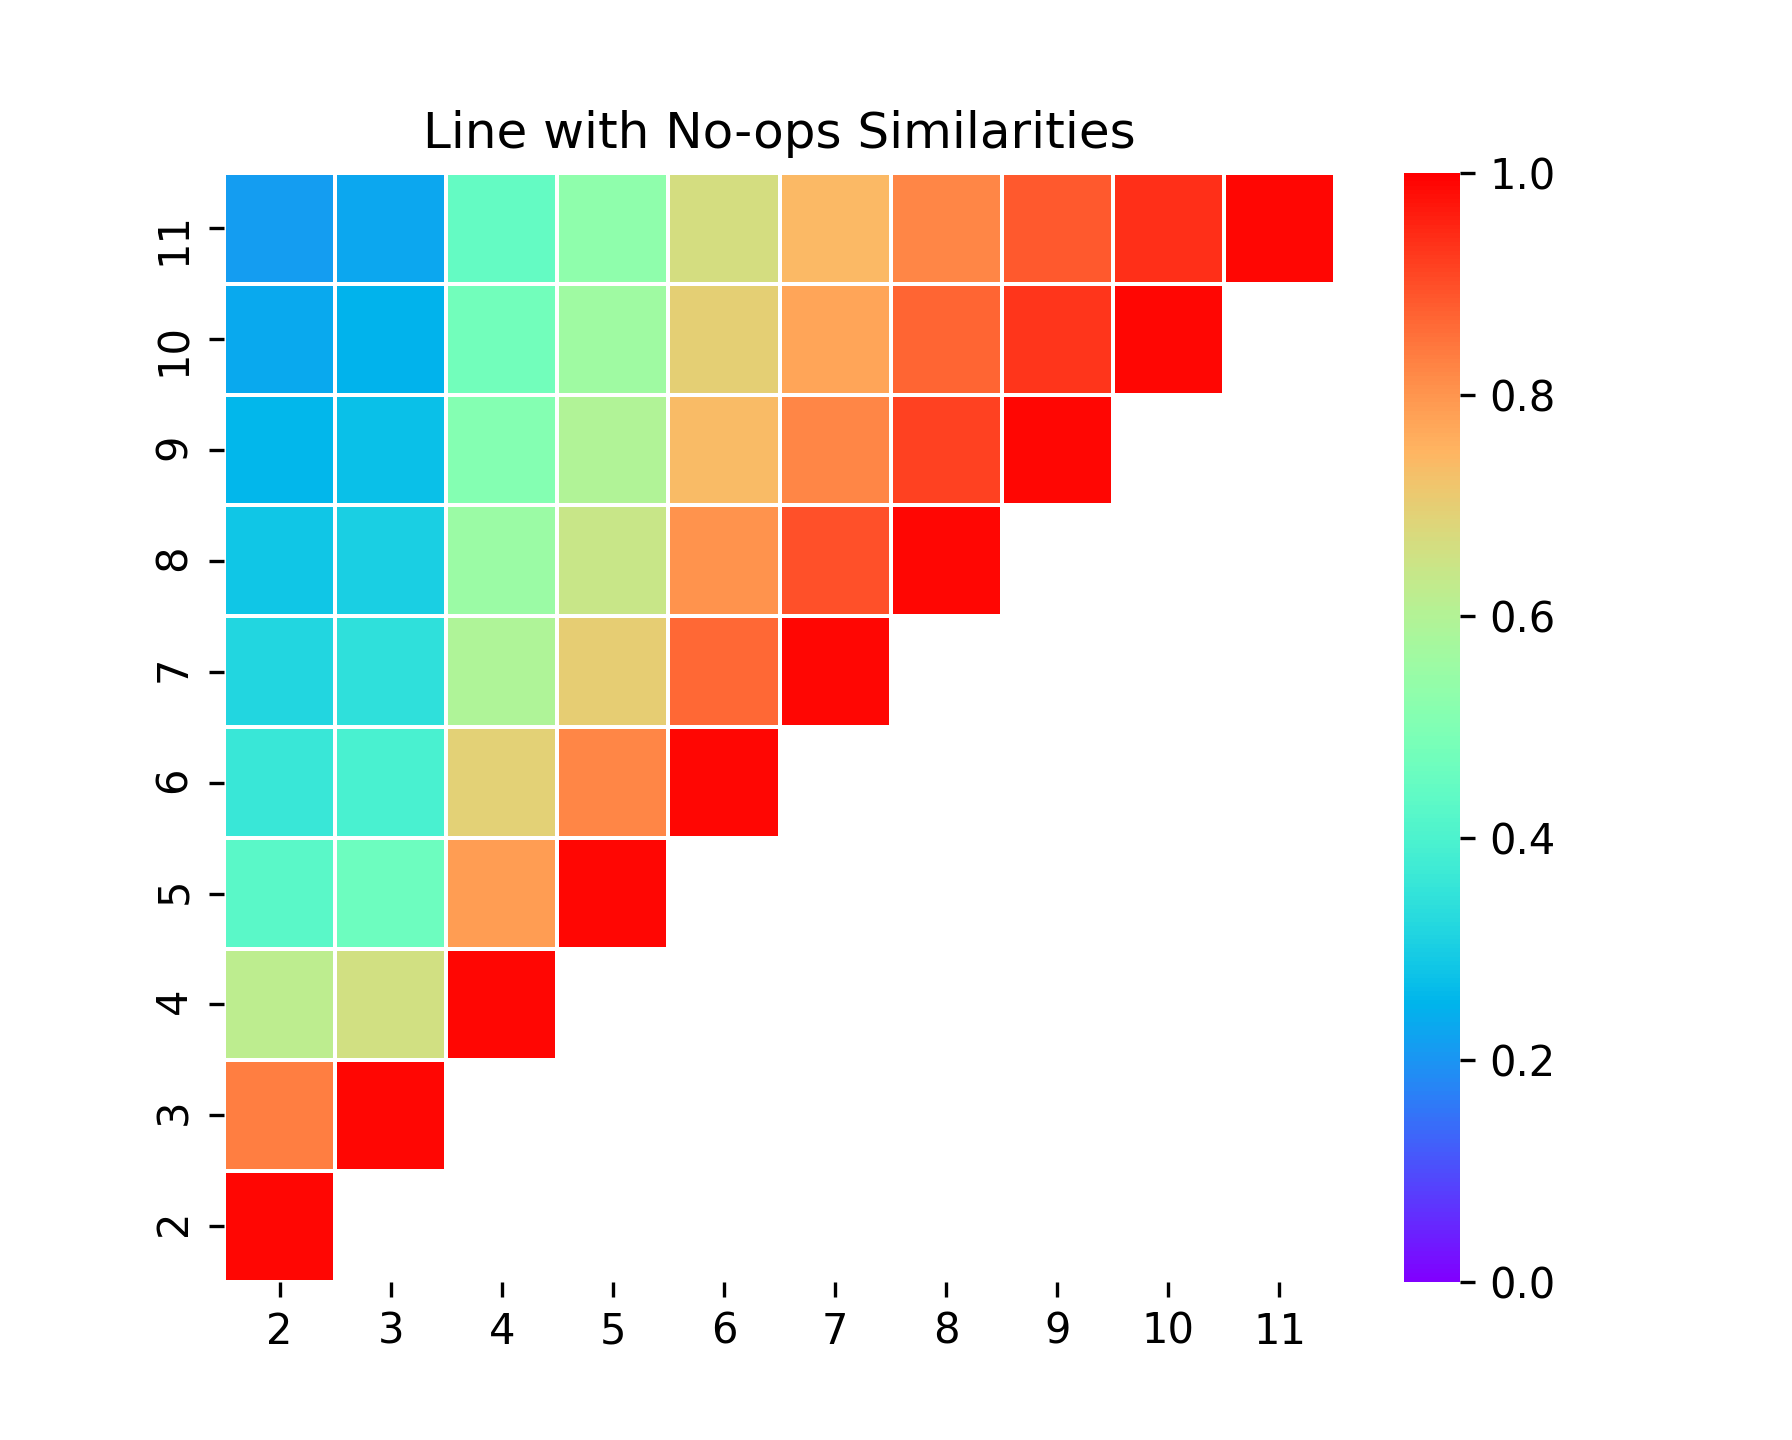
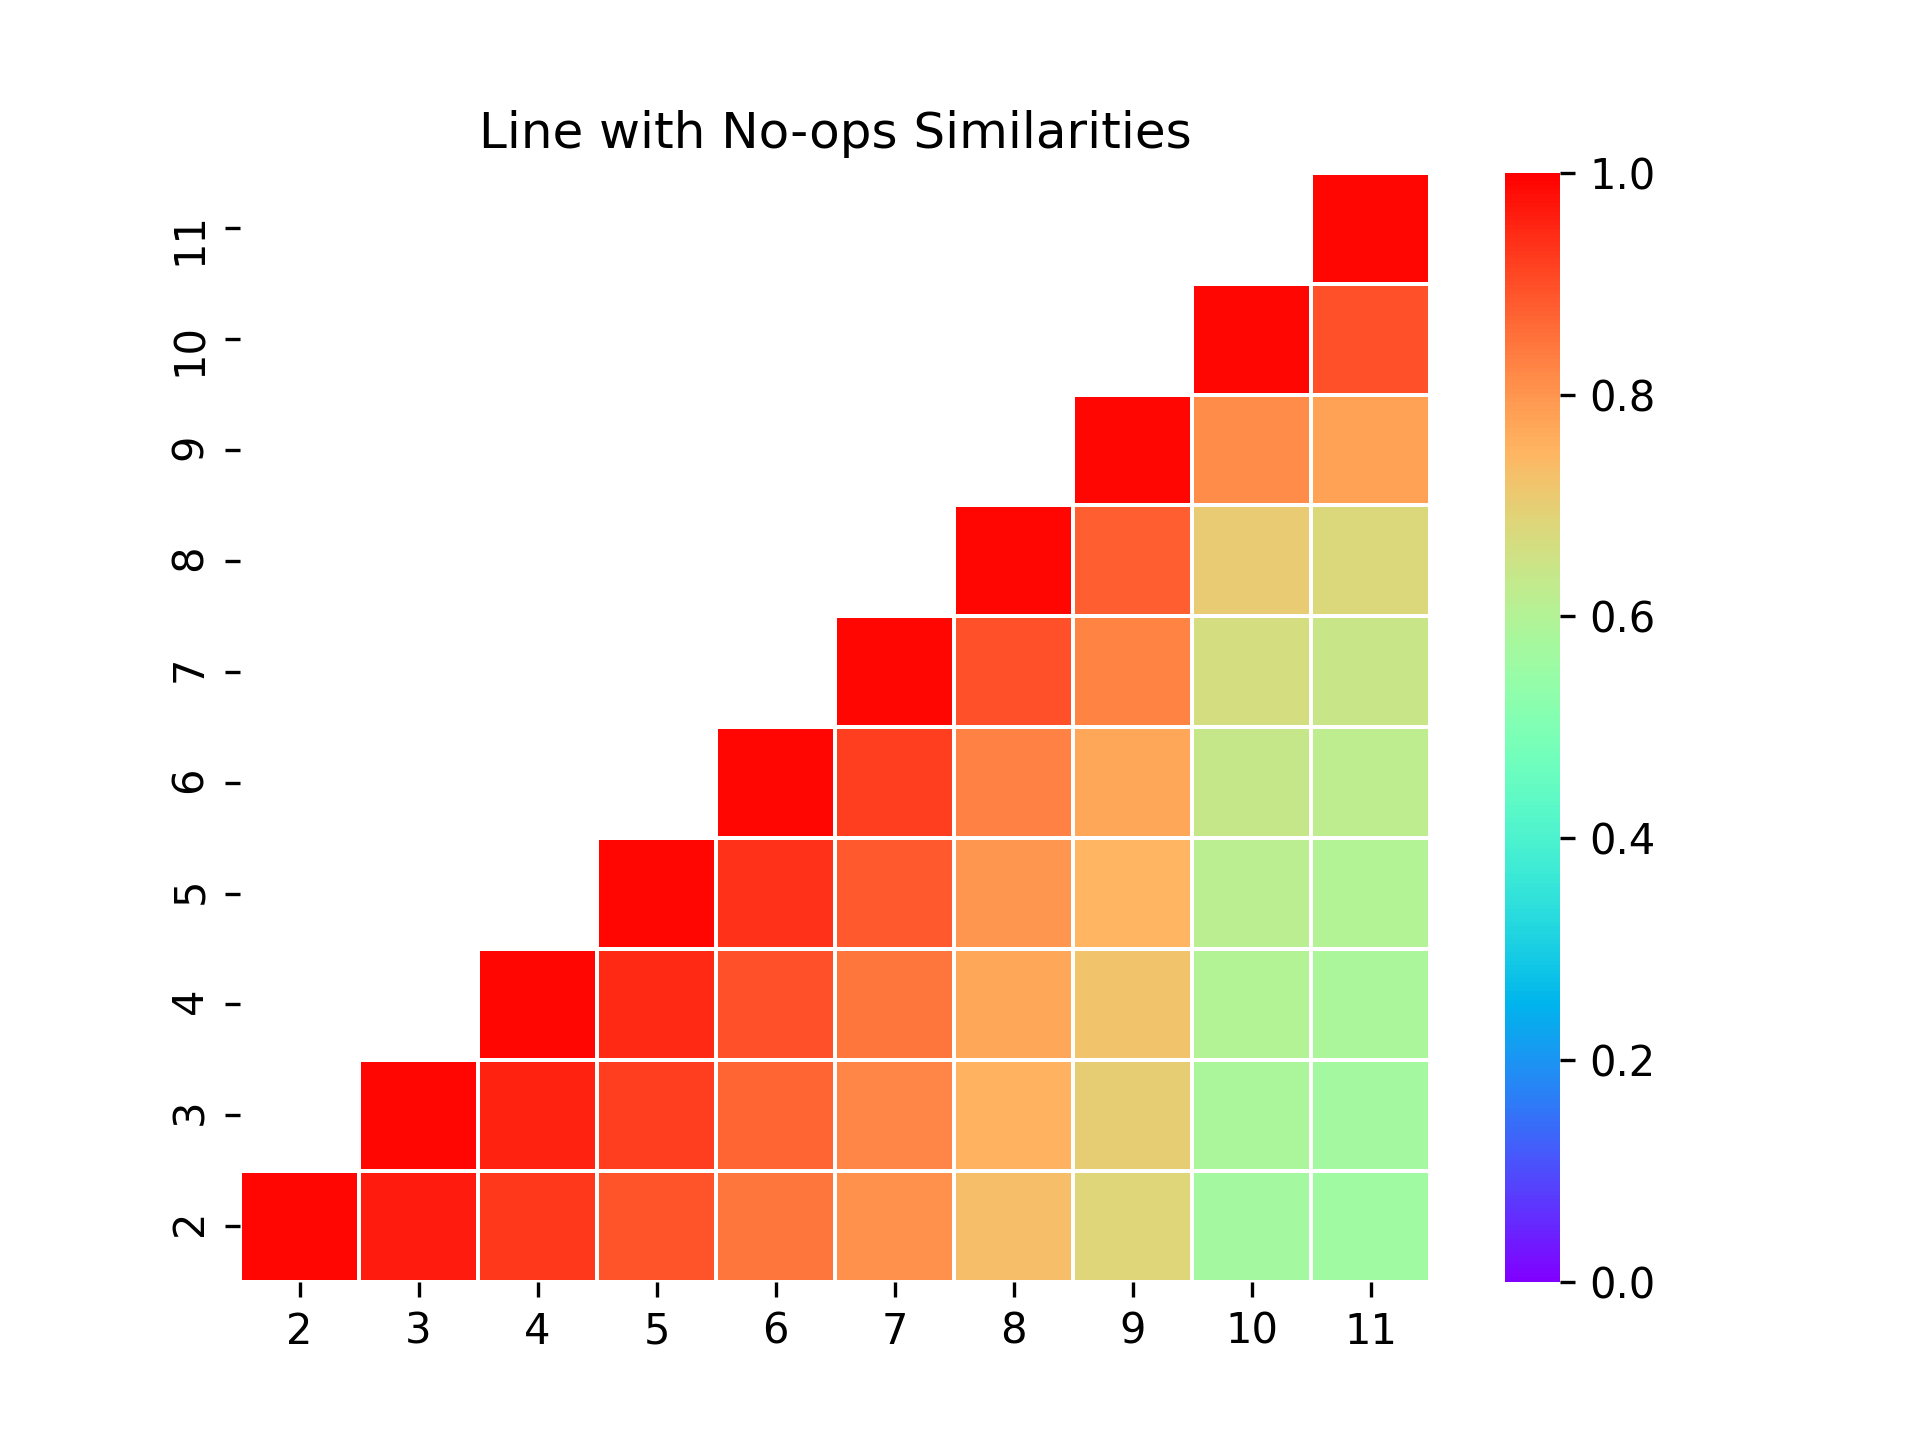
allow for rewards to be in [-1, 1]

diff --git a/tasksim/experiments/main_pipeline.py b/tasksim/experiments/main_pipeline.py
@@ -15,7 +15,7 @@ FIG_OUT = 'pipeline_figures'
 def generate_graphs(sizes, success_prob=0.9, noops=False):
     return [gen.MDPGraph.from_grid(gen.create_grid(sz), success_prob, noops=noops) for sz in sizes]
 
-def compare_graphs(graphs, verify_metric=True, print_progress=True, title=None, ticks=None):
+def compare_graphs(graphs, verify_metric=True, print_progress=True, title=None, xticks=None, yticks=None):
     length = len(graphs)
     ret = np.zeros((length, length))
     idxs = [(i, j) for i, _ in enumerate(graphs) for j, _ in enumerate(graphs)]
@@ -27,16 +27,19 @@ def compare_graphs(graphs, verify_metric=True, print_progress=True, title=None, 
     else:
         for (i, j) in idxs:
             ret[i, j] = comp(i, j)
-    ax_heatmap = util.heatmap(ret, title=title, ticks=ticks)
+    ax_heatmap = util.heatmap(ret, title=title, xticks=xticks, yticks=yticks)
     if verify_metric:
-        metric = util.check_metric_properties(ret, graphs, PRECISION_CHECK)
+        metric = util.check_metric_properties(ret, graphs, decimals=PRECISION_CHECK, output=True)
         return ret, ax_heatmap, metric
     return ret, ax_heatmap
 
-def process_print_graphs(graphs, title, ticks):
+def process_print_graphs(graphs, title, ticks=None, xticks=None, yticks=None):
     print(f'\n{title}')
-    comp, heatmap, metric = compare_graphs(graphs, verify_metric=True, title=title, ticks=ticks)
-    print(f'Metric valid (order, triangle inequality, symmetry): {metric}')
+    if ticks is not None:
+        xticks = ticks
+        yticks = ticks
+    comp, heatmap, metric = compare_graphs(graphs, verify_metric=True, title=title, xticks=xticks, yticks=yticks)
+    #print(f'Metric valid (order, triangle inequality, symmetry): {metric}')
     print(np.triu(comp))
     plt.figure(plt.get_fignums()[-1]).savefig(f'{FIG_OUT}/{title.lower().replace(" ", "_")}.png')
     return comp, heatmap, metric
@@ -52,10 +55,23 @@ def shape_comparisons(line_sizes=None, grid_sizes=None):
     grids = generate_graphs(grid_shapes)
     lines_noops = generate_graphs(line_shapes, noops=True)
     grids_noops = generate_graphs(grid_shapes, noops=True)
-    process_print_graphs(lines, 'Line Similarities', [str(s[1]) for s in line_shapes])
-    process_print_graphs(grids, 'Grid Similarities', [str(s[1]) for s in grid_shapes])
-    process_print_graphs(lines_noops, 'Line with No-ops Similarities', [str(s[1]) for s in line_shapes])
-    process_print_graphs(grids_noops, 'Grid with No-ops Similarities', [str(s[1]) for s in grid_shapes])
+    process_print_graphs(lines, 'Line Similarities', ticks=[str(s[1]) for s in line_shapes])
+    process_print_graphs(grids, 'Grid Similarities', ticks=[str(s[1]) for s in grid_shapes])
+    process_print_graphs(lines_noops, 'Line with No-ops Similarities', ticks=[str(s[1]) for s in line_shapes])
+    process_print_graphs(grids_noops, 'Grid with No-ops Similarities', ticks=[str(s[1]) for s in grid_shapes])
+
+def success_prob_comparisons(grid_size=7, probs=None):
+    if probs is None:
+        probs = np.arange(0.1, 1.1, 0.1)
+    grid = gen.create_grid((grid_size, grid_size))
+    graphs = [gen.MDPGraph.from_grid(grid, prob, noops=False) for prob in probs]
+    process_print_graphs(graphs, f'Action Success Probabilities {grid_size}x{grid_size}', ticks=[f'{prob:.1f}' for prob in probs])
+
+def transition_prob_noise():
+    def add_noise(G, noise):
+        P = G.P
+
+    pass
 
 if __name__ == '__main__':
     plt.ion()
@@ -68,4 +84,4 @@ if __name__ == '__main__':
 
     # Main process
     shape_comparisons()
-    #plt.show()
+    success_prob_comparisons()

diff --git a/tasksim/gridworld_generator.py b/tasksim/gridworld_generator.py
@@ -23,11 +23,12 @@ from collections import namedtuple
 # Simple-ish wrapper class of (P, R, out_s, out_a)
 class MDPGraph:
 
-    def __init__(self, P, R, out_s, out_a):
+    def __init__(self, P, R, out_s, out_a, available_actions):
         self.P = P.copy()
         self.R = R.copy()
         self.out_s = out_s.copy()
         self.out_a = out_a.copy()
+        self.available_actions = available_actions.copy()
 
     @classmethod
     def from_file(cls, path, reward=1, noops=True):
@@ -36,8 +37,8 @@ class MDPGraph:
 
     @classmethod
     def from_grid(cls, grid, success_prob, reward=1, noops=True):
-        P, R, out_s, out_a  = cls.grid_to_graph(grid, success_prob, reward=reward, noops=noops)
-        return cls(P, R, out_s, out_a)
+        P, R, out_s, out_a, available_actions  = cls.grid_to_graph(grid, success_prob, reward=reward, noops=noops)
+        return cls(P, R, out_s, out_a, available_actions)
 
     # 5 moves: left = 0, right = 1, up = 2, down = 3, no-op = 4
     @classmethod
@@ -46,6 +47,7 @@ class MDPGraph:
         row = state // width
         col = state - width*row
 
+        # left, right, up, down, no-op/stay
         moves = [None] * 5
         # no-op
         if noops:
@@ -81,15 +83,15 @@ class MDPGraph:
                                     [np.empty(shape=(0,), dtype=int) for i in range(num_states)]))
         out_neighbors_a = dict()
 
+        num_grid_actions = 5
         a_node = 0
-        out_a_info = {}
-        ActionInfo = namedtuple("ActionInfo", "states rel_states probs")
+        available_actions = np.zeros((num_states, num_grid_actions))
         for s in range(num_states):
             actions = cls.get_valid_adjacent(s, grid, noops)
+            available_actions[s, :] = [1 if a is not None else 0 for a in actions]
             filtered_actions = [a for a in actions if a is not None]
             # assert len(filtered_actions) == 0 or len(filtered_actions) >= 2, \
             #         'Invalid actions; must be either zero or at least 2 (action + no-op)'
-
             for action in filtered_actions:
                 # each action a state can do creates an action node
                 out_neighbors_s[s] = np.append(out_neighbors_s[s], a_node)
@@ -122,10 +124,10 @@ class MDPGraph:
             for g in goal_states:
                 if P[i, g] > 0:
                     R[i, g] = reward
-        return P, R, out_neighbors_s, out_neighbors_a
+        return P, R, out_neighbors_s, out_neighbors_a, available_actions
     
     def copy(self):
-        return MDPGraph(self.P, self.R, self.out_s, self.out_a)
+        return MDPGraph(self.P, self.R, self.out_s, self.out_a, self.available_actions)
 
     # reorders the out-actions of the specified state
     # can apply different permutations within an MDP and/or between MDPs

diff --git a/tasksim/experiments/pipeline_utilities.py b/tasksim/experiments/pipeline_utilities.py
@@ -52,19 +52,23 @@ def check_metric_properties(comparisons, graphs, decimals=10, output=False):
     def output_print(x):
         if output:
             print(x)
+    # ensure symmetric
+    boundary = -10**-decimals
+    if np.abs(comparisons - comparisons.T).max() > abs(boundary):
+        output_print('Symmetry check failed')
+    else:
+        output_print('Symmetry check passed!')
     order = check_diffs(comparisons, precision_check)
     if not order:
         output_print('Order check failed')
-        return False
     else:
         output_print('Order check passed!')
     ans, counter = check_triangle_inequality(comparisons, precision_check)
     if not ans:
         output_print(f'Triangle inequality check ({precision_check} decimals) failed at: {counter}')
-        return False
     else:
         output_print(f'Triangle inequality check ({precision_check} decimals) passed!')
-    return True
+    return order, ans
     # shuffle = check_shuffled(comparisons, graphs, precision_check)
     # if not shuffle:
     #     print('Shuffle check failed')
@@ -72,13 +76,13 @@ def check_metric_properties(comparisons, graphs, decimals=10, output=False):
     #     print('Shuffle check passed!')
 
 # TODO: labels, ticks, & titles
-def heatmap(matrix, title=None, ticks=None, new_figure=True, flip_orientation=True, upper=True):
+def heatmap(matrix, title=None, xticks=None, yticks=None, new_figure=True, flip_orientation=True, upper=True):
     upper_mask = np.triu(matrix)
     lower_mask = np.tril(matrix)
     np.fill_diagonal(upper_mask, 0)
     if flip_orientation:
-        upper_mask = np.flipud(upper_mask)
-        lower_mask = np.flipud(lower_mask)
+        upper_mask = np.fliplr(upper_mask)
+        lower_mask = np.fliplr(lower_mask)
     if new_figure:
         plt.figure()
     keep = lower_mask
@@ -90,13 +94,13 @@ def heatmap(matrix, title=None, ticks=None, new_figure=True, flip_orientation=Tr
         ax = sns.heatmap(1 - keep, linewidth=0.5, cmap="rainbow", vmin=0, vmax=1)
     if title is not None:
         ax.set_title(title)
-    if ticks is not None:
-        ax.set_xticklabels(ticks)
-        #ax.xaxis.tick_top()
-        ticks_y = np.array(ticks).copy()
+    if xticks is not None:
+        ax.set_xticklabels(xticks)
+    if yticks is not None:
+        yticks = np.array(yticks).copy()
         if flip_orientation:
-            ticks_y = np.flip(ticks_y)
-        ax.set_yticklabels(ticks_y)
+            yticks = np.flip(yticks)
+        ax.set_yticklabels(yticks)
     return ax
 
 # From Stackoverflow: https://stackoverflow.com/questions/3173320/text-progress-bar-in-the-console

diff --git a/tasksim/structural_similarity.py b/tasksim/structural_similarity.py
@@ -231,24 +231,33 @@ def cross_structural_similarity(action_dists1, action_dists2, reward_matrix1, re
     last_A = A.copy()
 
 
-    reward_matrix1, reward_matrix2 = norm(reward_matrix1, reward_matrix2, 'minmax')
+    # TODO: handle negative rewards differently...should be able to handle [-1, 1] range
+    #reward_matrix1, reward_matrix2 = norm(reward_matrix1, reward_matrix2, 'minmax')
 
-    # Can precompute expected rewards since loop invariant
-    expected_rewards1 = np.einsum('ij,ij->i', action_dists1, reward_matrix1) 
-    expected_rewards2 = np.einsum('ij,ij->i', action_dists2, reward_matrix2) 
-    def compute_diff(list1, list2):
-        diff = np.zeros((len(list1), len(list2)))
-        for i in range(len(list1)):
-            for j in range(len(list2)):
-                diff[i][j] = abs(list1[i] - list2[j])
+    def compute_exp(P, R):
+        n = P.shape[0]
+        ret_pos = np.zeros((n,))
+        ret_neg = np.zeros((n,))
+        for i in range(n):
+            probs, rewards = P[i], R[i]
+            pos, neg = rewards >= 0, rewards < 0
+            ret_pos[i] = np.dot(probs[pos], rewards[pos])
+            ret_neg[i] = np.dot(probs[neg], rewards[neg])
+        return ret_pos, ret_neg
+    expected_rewards_pos1, expected_rewards_neg1 = compute_exp(action_dists1, reward_matrix1)
+    expected_rewards_pos2, expected_rewards_neg2 = compute_exp(action_dists2, reward_matrix2)
+    def compute_diff(pos1, pos2, neg1, neg2):
+        diff = np.zeros((len(pos1), len(pos2)))
+        for i in range(len(pos1)):
+            for j in range(len(pos2)):
+                diff[i][j] = 0.5*abs(pos1[i] - pos2[j]) + 0.5*abs(neg1[i] - neg2[j])
         return diff
-    cached_reward_differences = compute_diff(expected_rewards1, expected_rewards2)
+    cached_reward_differences = compute_diff(expected_rewards_pos1, expected_rewards_pos2, expected_rewards_neg1, expected_rewards_neg2)
     reward_diffs_id = ray.put(cached_reward_differences)
     actions1_id = ray.put(action_dists1)
     actions2_id = ray.put(action_dists2)
     out_S1_id = ray.put(out_neighbors_S1)
     out_S2_id = ray.put(out_neighbors_S2)
-
 
     if not self_similarity:
         action_pairs = np.array([np.float64((i, j)) for i in range(n_actions1) for j in range(n_actions2)]).reshape((n_actions1, n_actions2, 2))

diff --git a/tasksim/environment.py b/tasksim/environment.py
@@ -1,0 +1,17 @@
+import numpy as np
+import gym
+from gym import spaces
+
+import tasksim
+from tasksim import MDPGraph
+import tasksim.gridworld_generator as gen
+import tasksim.structural_similarity as sim
+
+class MDPGraphEnv(gym.Env):
+
+    def __init__(self, graph: gen.MDPGraph, random_state=None):
+        super(MDPGraphEnv, self).__init__()
+        self.graph = graph
+        self.random_state = random_state if random_state is not None else np.random
+        # TODO: need some sort of info on actions in MDPGraph; perhaps binary matrix of state by num_actions, with 1 if it's available, 0 if not
+        #num_actions 

diff --git a/tasksim/experiments/test_neg_rewards.py b/tasksim/experiments/test_neg_rewards.py
@@ -1,0 +1,15 @@
+import numpy as np
+
+import tasksim
+import tasksim.gridworld_generator as gen
+import tasksim.structural_similarity as sim
+
+if __name__ == '__main__':
+    tasksim.init_ray()
+    n = 5
+    grid = gen.create_grid((n, n))
+    G = gen.MDPGraph.from_grid(grid, success_prob=0.9, reward=1, noops=False)
+    G_neg = gen.MDPGraph.from_grid(grid, success_prob=0.9, reward=-1, noops=False)
+    print(f'G - G:\t\t{G.compare2(G)}')
+    print(f'G_neg - G_neg:\t{G_neg.compare2(G_neg)}')
+    print(f'G - G_neg:\t{G.compare2(G_neg)}')

diff --git a/setup.py b/setup.py
@@ -44,7 +44,8 @@ setup(
         'pyinstrument',
         'numba',
         'ray',
-        'ray[default]'
+        'ray[default]',
+        'gym'
     ],
     zip_safe=False,
 )
